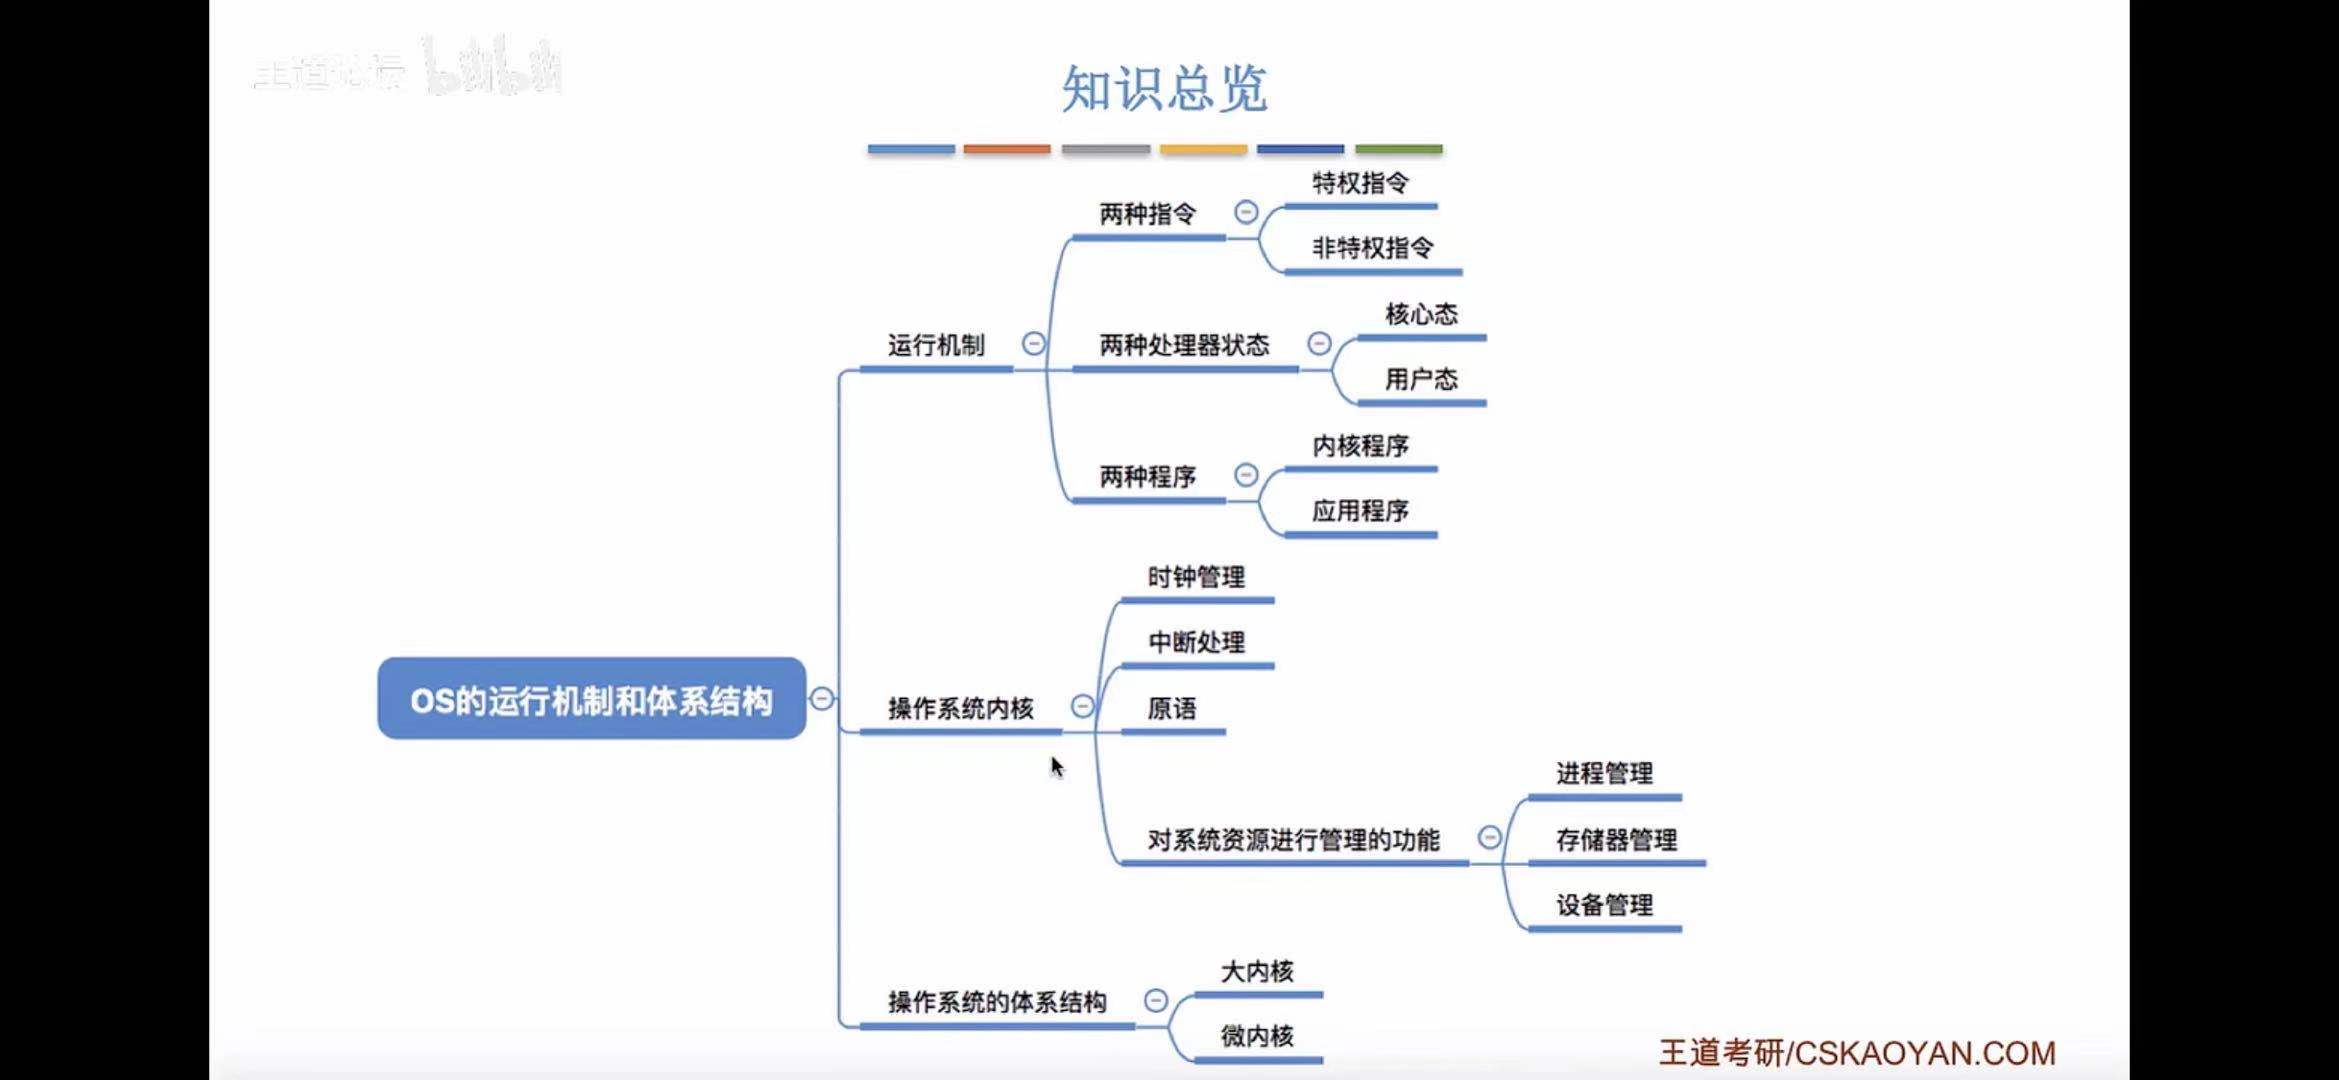
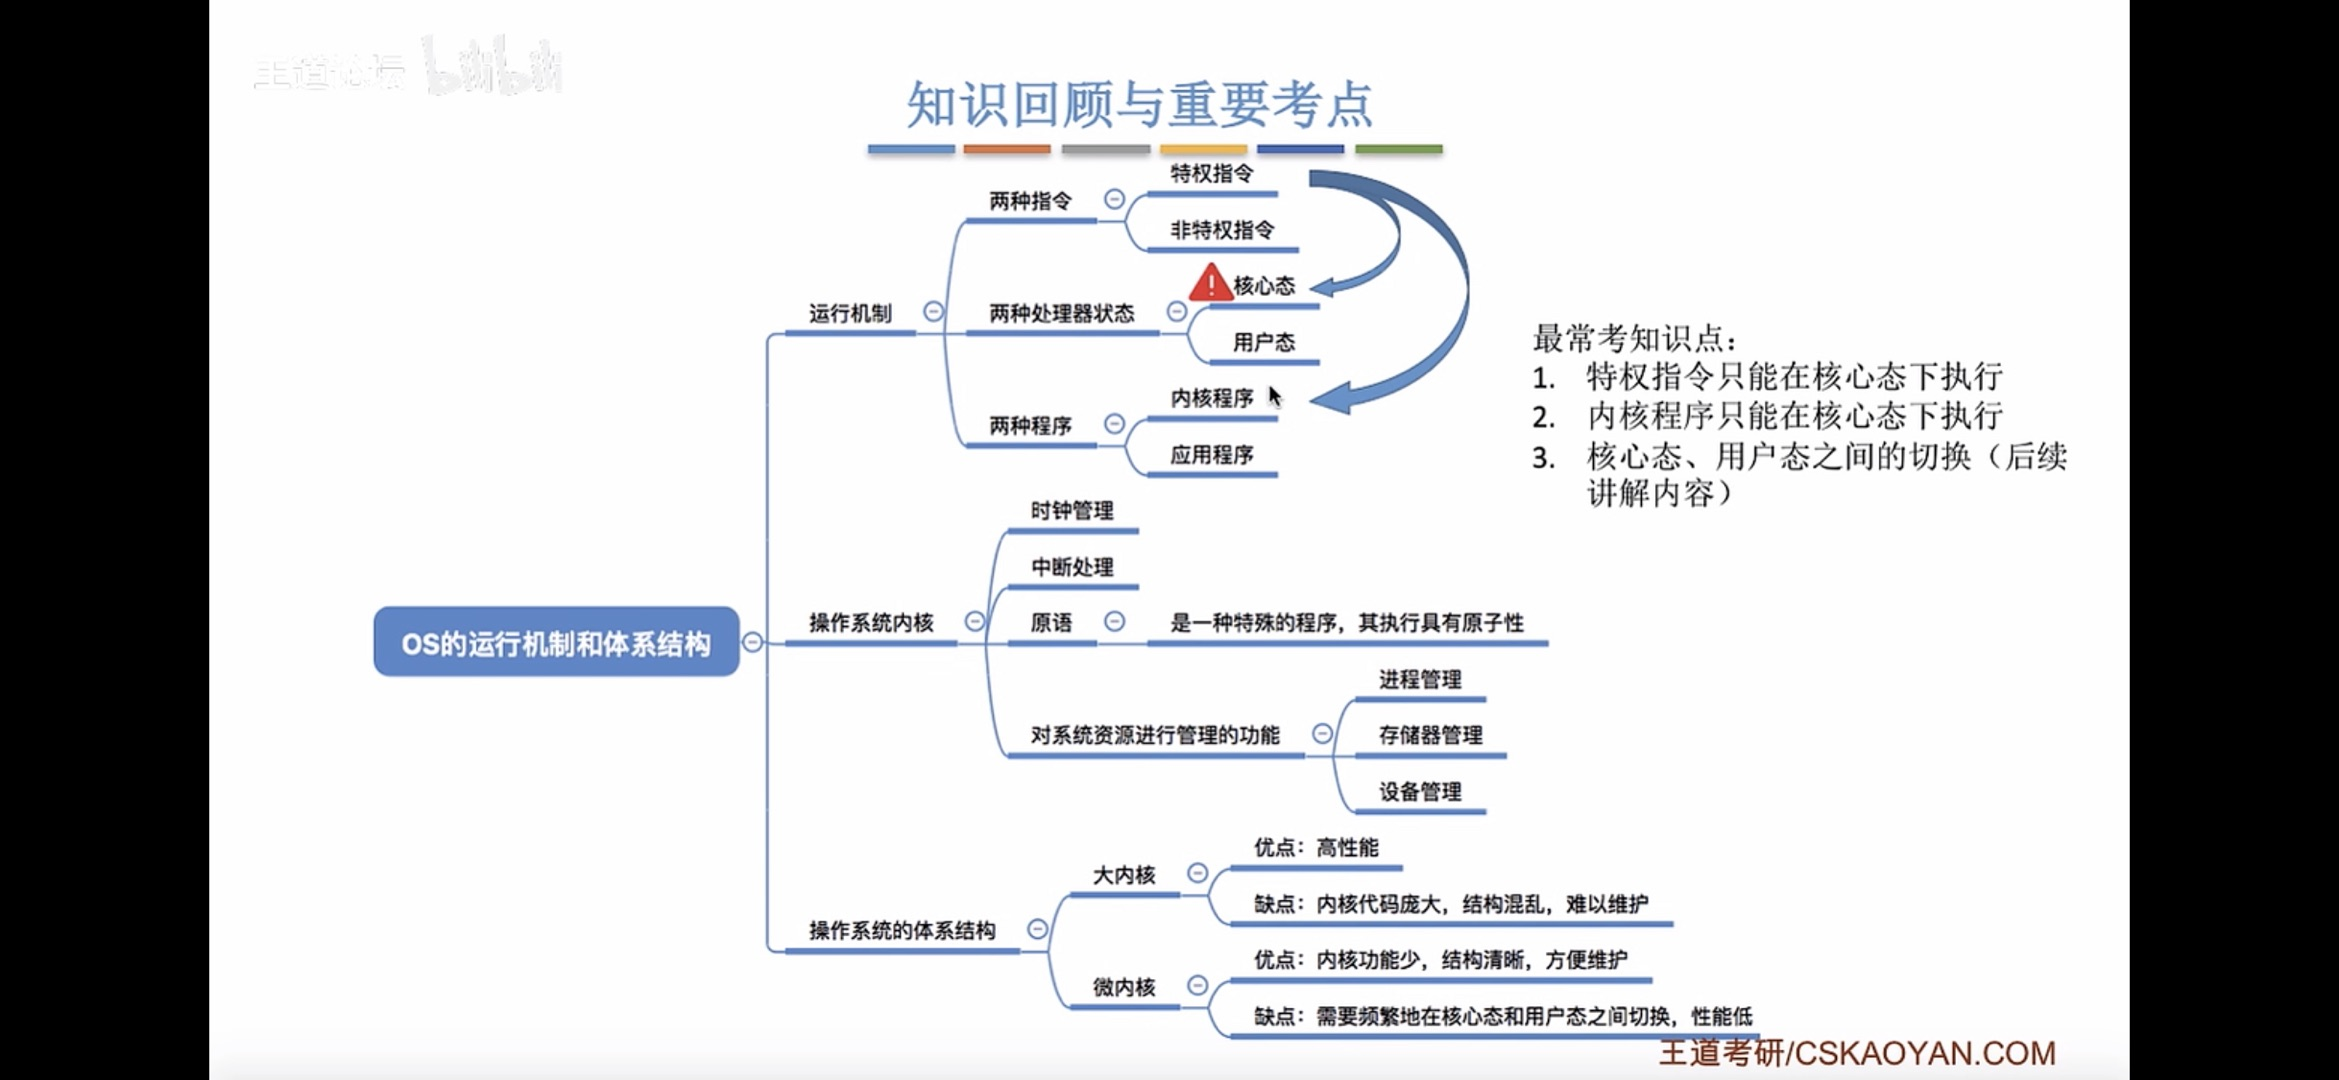
1

Changed region(s): [[0.156, 0.1528, 0.9051, 1.0], [0.3745, 0.0611, 0.593, 0.1222]]

diff --git a/linux-shell/操作系统/1-操作系统的概念/4-操作系统的运行机制和体系结构/readme.md b/linux-shell/操作系统/1-操作系统的概念/4-操作系统的运行机制和体系结构/readme.md
@@ -2,28 +2,62 @@
 
 ## 运行机制
 
+`指令` 和 我们平常的`代码`有什么区别?
+C 语言代码 -> 通过翻译 -> 机器语言指令
+`（一条高级语言代码翻译过来可能会对应多条指令）`
+指令： CPU（处理器） 可以识别和执行的最基本的命令
+
 ### 两种指令
 
+有的指令人畜无害，比如 加减乘除这种普通的运算指令
+
+有的指令有很高的权限,比如 内存清零，如果用户可以使用这个指令，就意味着一个用户可以让其他用户的内存数据随意清零，这显然是很危险的，影响到系统的安全性
+
 - 特权指令
+  `不允许普通用户程序使用`
 - 非特权指令
 
 ### 两种处理器状态
 
-- 核心态
-- 用户态
+问题：CPU 如何判断当前是否可以执行特权指令？
+
+- 核心态（管态）- `CPU可以执行特权指令`
+- 用户态（目态）- `CPU只能执行非特权指令`
+
+CPU 的两种状态是用`程序状态寄存器（PSW）`中的某标识位来标识当前处理器处于哪种状态（0：用户态， 1： 核心态）
 
 ### 两种程序
 
 - 内核程序
-- 用户程序
+  `系统资源的管理者，既可以执行特权指令，也可以执行非特权指令，运行在核心态`
+- 应用程序
+  `只能执行非特权指令，运行在用户态`
 
 ## 操作系统内核
 
+操作系统层次结构由 内核功能，非内核功能组成
+
+内核功能- 接近硬件
+
+问题：操作系统的哪些功能由内核程序实现呢？
+
+- 时钟管理
+- 中断处理
+- 原语
+
+`内核是计算上配置的底层软件，是操作系统最基本，最核心的部分。`
+
+`实现操作系统内核功能的那些程序就是内核程序`
+
 ### 时钟管理
+
+实现计时功能
 
 ### 中断处理
 
 ### 原语
+
+一种特殊的程序，是最接近硬件的部分，这种程序的运行具有原子性
 
 ### 对系统资源进行管理的功能
 
@@ -32,6 +66,8 @@
 - 设备管理
 
 ## 操作系统的体系结构
+
+如图
 
 ### 大内核
 
